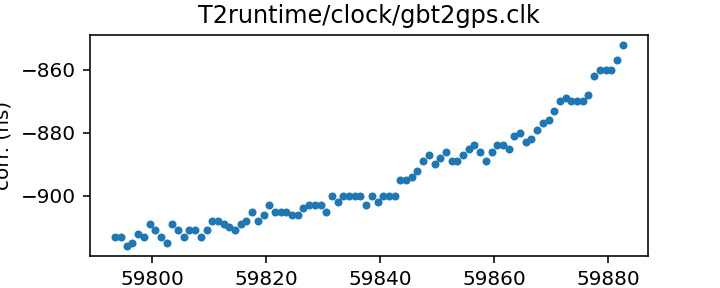
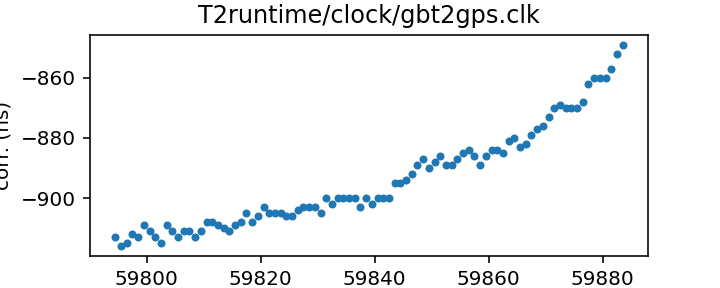
Routine gh-pages update from Github action Tue Nov  1 20:38:22 UTC 2022

diff --git a/status.md b/status.md
@@ -13,17 +13,17 @@ name of each clock file links to a page with more details.
 
 | Name | File | Corrections start | Corrections end | Last check date | Last check result 
 |:--- |:--- | --- | --- | --- |:--- 
-| [GPS to UTC](T2runtime/clock/gps2utc.clk.html) | `T2runtime/clock/gps2utc.clk` | 1993-01-01 MJD 48988.0 | 2022-09-27 MJD 59849.0 | 2022-10-31 | Unchanged 
-| [GPS to UTC (Combined Clock)](T2runtime/clock/gps2utc_cc.clk.html) | `T2runtime/clock/gps2utc_cc.clk` | 1993-01-01 MJD 48988.0 | 2022-09-27 MJD 59849.0 | 2022-10-31 | Unchanged 
-| [GPS to UTC (Corrected)](T2runtime/clock/gps2utc_c0p.clk.html) | `T2runtime/clock/gps2utc_c0p.clk` | 2010-12-29 MJD 55559.0 | 2022-09-27 MJD 59849.0 | 2022-10-31 | Unchanged 
-| [GBT](tempo/clock/time_gbt.dat.html) | `tempo/clock/time_gbt.dat` | 2000-12-31 MJD 51909.5 | 2022-10-30 MJD 59882.5 | 2022-10-31 | Updated 
-| [GBT (TEMPO2 converted from TEMPO)](T2runtime/clock/gbt2gps.clk.html) | `T2runtime/clock/gbt2gps.clk` | 2000-12-31 MJD 51909.5 | 2022-10-30 MJD 59882.5 | 2022-10-31 | Updated 
+| [GPS to UTC](T2runtime/clock/gps2utc.clk.html) | `T2runtime/clock/gps2utc.clk` | 1993-01-01 MJD 48988.0 | 2022-09-27 MJD 59849.0 | 2022-11-01 | Unchanged 
+| [GPS to UTC (Combined Clock)](T2runtime/clock/gps2utc_cc.clk.html) | `T2runtime/clock/gps2utc_cc.clk` | 1993-01-01 MJD 48988.0 | 2022-09-27 MJD 59849.0 | 2022-11-01 | Unchanged 
+| [GPS to UTC (Corrected)](T2runtime/clock/gps2utc_c0p.clk.html) | `T2runtime/clock/gps2utc_c0p.clk` | 2010-12-29 MJD 55559.0 | 2022-09-27 MJD 59849.0 | 2022-11-01 | Unchanged 
+| [GBT](tempo/clock/time_gbt.dat.html) | `tempo/clock/time_gbt.dat` | 2000-12-31 MJD 51909.5 | 2022-10-31 MJD 59883.5 | 2022-11-01 | Updated 
+| [GBT (TEMPO2 converted from TEMPO)](T2runtime/clock/gbt2gps.clk.html) | `T2runtime/clock/gbt2gps.clk` | 2000-12-31 MJD 51909.5 | 2022-10-31 MJD 59883.5 | 2022-11-01 | Updated 
 | [Jodrell Bank](T2runtime/clock/jb2gps.clk.html) | `T2runtime/clock/jb2gps.clk` | 2006-10-13 MJD 54021.4 | 2021-11-03 MJD 59521.0 | 2022-10-26 | Unchanged 
 | [Jodrell Bank Roach](T2runtime/clock/jbroach2jb.clk.html) | `T2runtime/clock/jbroach2jb.clk` | 2006-10-13 MJD 54021.4 | 2018-03-20 MJD 58197.6 | 2022-10-26 | Unchanged 
 | [Jodrell Bank DFB](T2runtime/clock/jbdfb2jb.clk.html) | `T2runtime/clock/jbdfb2jb.clk` | 2006-10-13 MJD 54021.4 | 2017-05-11 MJD 57884.0 | 2022-10-26 | Unchanged 
 | [Meerkat (observatory)](T2runtime/clock/mk2utc_observatory.clk.html) | `T2runtime/clock/mk2utc_observatory.clk` | 2019-01-01 MJD 58484.0 | 2022-10-05 MJD 59858.0 | 2022-10-31 | **Failed to download** 
-| [Leap seconds](tempo/clock/leap.sec.html) | `tempo/clock/leap.sec` | 1972-07-01 MJD 41499.0 | 2017-01-01 MJD 57754.0 | 2022-10-31 | Unchanged 
-| [UT1 table](tempo/clock/ut1.dat.html) | `tempo/clock/ut1.dat` | 1973-01-02 MJD 41684.0 | 2023-11-04 MJD 60252.0 | 2022-10-31 | Unchanged 
+| [Leap seconds](tempo/clock/leap.sec.html) | `tempo/clock/leap.sec` | 1972-07-01 MJD 41499.0 | 2017-01-01 MJD 57754.0 | 2022-11-01 | Unchanged 
+| [UT1 table](tempo/clock/ut1.dat.html) | `tempo/clock/ut1.dat` | 1973-01-02 MJD 41684.0 | 2023-11-04 MJD 60252.0 | 2022-11-01 | Unchanged 
 
 
 

diff --git a/T2runtime/clock/gbt2gps.clk.md b/T2runtime/clock/gbt2gps.clk.md
@@ -23,14 +23,13 @@ If questions arise about the conversion, contact Anne Archibald
 | Format | tempo2 |
 | Bogus last correction | False |
 | Clock file start | 2000-12-31 MJD 51909.5 |
-| Clock file end | 2022-10-30 MJD 59882.5 |
+| Clock file end | 2022-10-31 MJD 59883.5 |
 | Update interval (days) | 1 |
-| Last update attempt | 2022-10-31 |
+| Last update attempt | 2022-11-01 |
 | Last update result | Updated |
 
 Log entries from the last few update attempts:
 ```
-2022-10-22 20:41:22.968 - Updated
 2022-10-23 20:41:35.993 - Updated
 2022-10-24 20:43:25.564 - Updated
 2022-10-25 20:44:30.450 - Updated
@@ -40,12 +39,13 @@ Log entries from the last few update attempts:
 2022-10-29 20:35:15.179 - Updated
 2022-10-30 20:35:46.191 - Updated
 2022-10-31 20:37:51.621 - Updated
+2022-11-01 20:38:00.308 - Updated
 ```
 [Full log](https://raw.githubusercontent.com/ipta/pulsar-clock-corrections/main/log/T2runtime/clock/gbt2gps.clk.log)
 
 Leading comments from clock file:
 
-    # This file was automatically converted from tempo/clock/time_gbt.dat on 2022-10-31 20:37:51.534
+    # This file was automatically converted from tempo/clock/time_gbt.dat on 2022-11-01 20:38:00.242
 
 
 

diff --git a/tempo/clock/time_gbt.dat.md b/tempo/clock/time_gbt.dat.md
@@ -18,14 +18,13 @@ If questions arise, contact Ryan S. Lynch <rlynch@nrao.edu>.
 | Format | tempo |
 | Bogus last correction | False |
 | Clock file start | 2000-12-31 MJD 51909.5 |
-| Clock file end | 2022-10-30 MJD 59882.5 |
+| Clock file end | 2022-10-31 MJD 59883.5 |
 | Update interval (days) | 1 |
-| Last update attempt | 2022-10-31 |
+| Last update attempt | 2022-11-01 |
 | Last update result | Updated |
 
 Log entries from the last few update attempts:
 ```
-2022-10-22 20:41:22.887 - Updated
 2022-10-23 20:41:35.922 - Updated
 2022-10-24 20:43:25.323 - Updated
 2022-10-25 20:44:30.357 - Updated
@@ -35,6 +34,7 @@ Log entries from the last few update attempts:
 2022-10-29 20:35:15.099 - Updated
 2022-10-30 20:35:46.102 - Updated
 2022-10-31 20:37:51.004 - Updated
+2022-11-01 20:38:00.240 - Updated
 ```
 [Full log](https://raw.githubusercontent.com/ipta/pulsar-clock-corrections/main/log/tempo/clock/time_gbt.dat.log)
 

diff --git a/T2runtime/clock/gps2utc_c0p.clk.md b/T2runtime/clock/gps2utc_c0p.clk.md
@@ -30,12 +30,11 @@ about the BIPM's published corrections, contact <tai@bipm.org>.
 | Clock file start | 2010-12-29 MJD 55559.0 |
 | Clock file end | 2022-09-27 MJD 59849.0 |
 | Update interval (days) | 1 |
-| Last update attempt | 2022-10-31 |
+| Last update attempt | 2022-11-01 |
 | Last update result | Unchanged |
 
 Log entries from the last few update attempts:
 ```
-2022-10-22 20:41:22.200 - Unchanged
 2022-10-23 20:41:35.497 - Unchanged
 2022-10-24 20:43:24.965 - Unchanged
 2022-10-25 20:44:29.629 - Unchanged
@@ -45,6 +44,7 @@ Log entries from the last few update attempts:
 2022-10-29 20:35:14.224 - Unchanged
 2022-10-30 20:35:45.032 - Unchanged
 2022-10-31 20:37:50.071 - Unchanged
+2022-11-01 20:37:59.863 - Unchanged
 ```
 [Full log](https://raw.githubusercontent.com/ipta/pulsar-clock-corrections/main/log/T2runtime/clock/gps2utc_c0p.clk.log)
 

diff --git a/T2runtime/clock/gps2utc_cc.clk.md b/T2runtime/clock/gps2utc_cc.clk.md
@@ -29,12 +29,11 @@ about the BIPM's published corrections, contact <tai@bipm.org>.
 | Clock file start | 1993-01-01 MJD 48988.0 |
 | Clock file end | 2022-09-27 MJD 59849.0 |
 | Update interval (days) | 1 |
-| Last update attempt | 2022-10-31 |
+| Last update attempt | 2022-11-01 |
 | Last update result | Unchanged |
 
 Log entries from the last few update attempts:
 ```
-2022-10-22 20:41:22.187 - Unchanged
 2022-10-23 20:41:35.485 - Unchanged
 2022-10-24 20:43:24.952 - Unchanged
 2022-10-25 20:44:29.614 - Unchanged
@@ -44,6 +43,7 @@ Log entries from the last few update attempts:
 2022-10-29 20:35:14.214 - Unchanged
 2022-10-30 20:35:45.019 - Unchanged
 2022-10-31 20:37:50.057 - Unchanged
+2022-11-01 20:37:59.852 - Unchanged
 ```
 [Full log](https://raw.githubusercontent.com/ipta/pulsar-clock-corrections/main/log/T2runtime/clock/gps2utc_cc.clk.log)
 

diff --git a/T2runtime/clock/gps2utc.clk.md b/T2runtime/clock/gps2utc.clk.md
@@ -32,12 +32,11 @@ about the BIPM's published corrections, contact <tai@bipm.org>.
 | Clock file start | 1993-01-01 MJD 48988.0 |
 | Clock file end | 2022-09-27 MJD 59849.0 |
 | Update interval (days) | 1 |
-| Last update attempt | 2022-10-31 |
+| Last update attempt | 2022-11-01 |
 | Last update result | Unchanged |
 
 Log entries from the last few update attempts:
 ```
-2022-10-22 20:41:22.149 - Unchanged
 2022-10-23 20:41:35.452 - Unchanged
 2022-10-24 20:43:24.912 - Unchanged
 2022-10-25 20:44:29.569 - Unchanged
@@ -47,6 +46,7 @@ Log entries from the last few update attempts:
 2022-10-29 20:35:14.183 - Unchanged
 2022-10-30 20:35:44.979 - Unchanged
 2022-10-31 20:37:50.016 - Unchanged
+2022-11-01 20:37:59.820 - Unchanged
 ```
 [Full log](https://raw.githubusercontent.com/ipta/pulsar-clock-corrections/main/log/T2runtime/clock/gps2utc.clk.log)
 

diff --git a/tempo/clock/leap.sec.md b/tempo/clock/leap.sec.md
@@ -21,12 +21,11 @@ If there are any questions, contact Anne Archibald
 | File start | 1972-07-01 MJD 41499.0 |
 | File end | 2017-01-01 MJD 57754.0 |
 | Update interval (days) | 0 |
-| Last update attempt | 2022-10-31 |
+| Last update attempt | 2022-11-01 |
 | Last update result | Unchanged |
 
 Log entries from the last few update attempts:
 ```
-2022-10-22 20:41:23.016 - Unchanged
 2022-10-23 20:41:36.030 - Unchanged
 2022-10-24 20:43:28.610 - Unchanged
 2022-10-25 20:44:30.494 - Unchanged
@@ -36,5 +35,6 @@ Log entries from the last few update attempts:
 2022-10-29 20:35:15.221 - Unchanged
 2022-10-30 20:35:46.243 - Unchanged
 2022-10-31 20:38:02.407 - Unchanged
+2022-11-01 20:38:00.343 - Unchanged
 ```
 [Full log](https://raw.githubusercontent.com/ipta/pulsar-clock-corrections/main/log/tempo/clock/leap.sec.log)

diff --git a/tempo/clock/ut1.dat.md b/tempo/clock/ut1.dat.md
@@ -30,12 +30,11 @@ If there are any questions, contact Anne Archibald
 | File start | 1973-01-02 MJD 41684.0 |
 | File end | 2023-11-04 MJD 60252.0 |
 | Update interval (days) | 0 |
-| Last update attempt | 2022-10-31 |
+| Last update attempt | 2022-11-01 |
 | Last update result | Unchanged |
 
 Log entries from the last few update attempts:
 ```
-2022-10-22 20:41:32.891 - Unchanged
 2022-10-23 20:41:44.121 - Unchanged
 2022-10-24 20:43:36.274 - Unchanged
 2022-10-25 20:44:41.808 - Unchanged
@@ -45,5 +44,6 @@ Log entries from the last few update attempts:
 2022-10-29 20:35:27.827 - Unchanged
 2022-10-30 20:35:59.228 - Unchanged
 2022-10-31 20:38:15.893 - Unchanged
+2022-11-01 20:38:08.211 - Unchanged
 ```
 [Full log](https://raw.githubusercontent.com/ipta/pulsar-clock-corrections/main/log/tempo/clock/ut1.dat.log)
